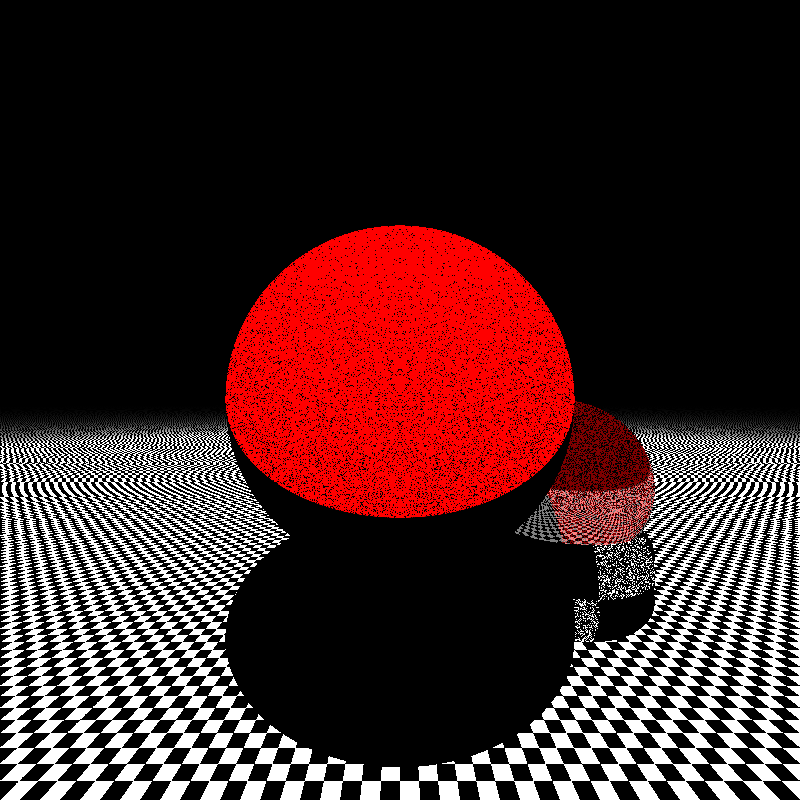
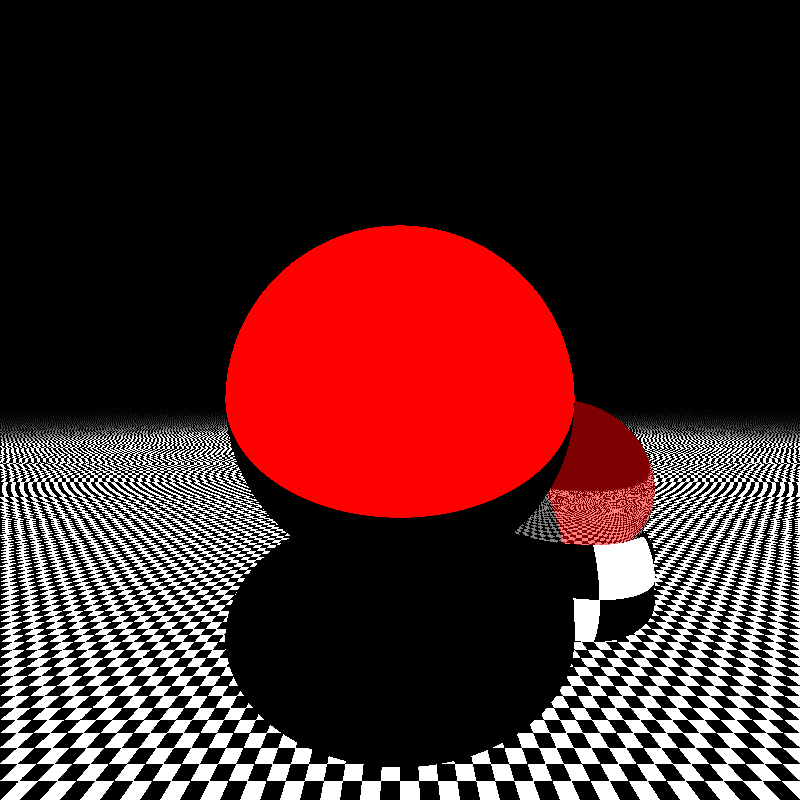
Luces puntuales listas

Changed region(s): [[0.2812, 0.4062, 0.8125, 0.75], [0.7188, 0.75, 0.75, 0.8125]]

diff --git a/src/objects.rs b/src/objects.rs
@@ -203,7 +203,6 @@ pub trait SceneObject{
     }
     fn get_color(&self,hit_point: &Point3D,scene: &Scene)->Color{
         let mut color = Color::black();
-        //INICIO CALCULO LUCES
         'lights_loop: for light in &scene.lights{
             let direction;
             let light_intensity;
@@ -220,15 +219,17 @@ pub trait SceneObject{
                     light_color = &luz.color;
                 },
                 Light::Spherical(luz) =>{
-                    light_color = &luz.color;
                     direction = (hit_point.clone() - luz.punto.clone()).into_vector();
                     let direction_module = direction.module();
                     let shadow_ray = Ray::new(luz.punto.clone(),direction.clone());          
                     for punto in scene.object_between_with_point(&shadow_ray) {
-                        if (punto - luz.punto.clone()).module() < direction_module{
+                        let coso = (punto - luz.punto.clone()).module();
+                        if coso < direction_module 
+                        && !((coso - direction_module).abs() < scene.shadow_bias){ //esta linea evita shadow bias
                             continue 'lights_loop;
                         }
                     }
+                    light_color = &luz.color;
                     light_intensity = luz.intensidad / (std::f64::consts::PI * 4.0 * direction_module * direction_module);
                 },
             }
@@ -237,10 +238,8 @@ pub trait SceneObject{
             let light_reflected = self.object_material().albedoo / std::f64::consts::PI;
             color = color + self.object_material().texture.color_at(coordinates,scene.gamma_correction) * light_color.clone() * light_power * light_reflected;
         }
-        //FIN CALCULO LUCES 
         color.clamp();
         color
-        
     }
     fn object_material(&self)->&Material;
     fn texture_coordinates(&self,hit_point: &Point3D)->TextureCoordinates;
@@ -272,10 +271,6 @@ pub mod objects{
     }
     impl SceneObject for Sphere{
         fn intersection_point(&self,ray: &Ray)->Option<Point3D>{
-            //evita intersecciones con sigo mismo
-            /*if ((ray.punto.clone() - self.center.clone()).module() - self.radio).abs() <1e-6 {
-                return None;
-            }*/
             let direccion = ray.direction();
             let aux = direccion.dot_product(&(ray.punto.clone() - self.center.clone()));
             let discriminante = aux*aux-((ray.punto.clone()-self.center.clone()).module().powi(2)-self.radio * self.radio);
@@ -284,14 +279,20 @@ pub mod objects{
             }else{
                 let lambda1 = -aux+(discriminante.sqrt());
                 let lambda2 = -aux-(discriminante.sqrt());
+                //let punto;
                 if lambda1>lambda2 && lambda2>=0.0{
-                    return Some((lambda2 * direccion.clone()).into_point() + ray.punto.clone())
+                    /*punto =*/ return Some((lambda2 * direccion.clone()).into_point() + ray.punto.clone());
                 }else{
                     if lambda1<0.0{
                         return None;
                     }
-                    return Some((lambda1 * direccion.clone()).into_point() + ray.punto.clone())
-                }  
+                    /*punto =*/ return Some((lambda1 * direccion.clone()).into_point() + ray.punto.clone());
+                }
+                //evita intersecciones consigo mismo
+                /*if punto.compare(&ray.punto,1e-6){
+                    return None;
+                }
+                Some(punto)*/  
             }         
         }
         fn surface_normal(&self,hit_point: &Point3D)->Vector3D{
@@ -306,7 +307,6 @@ pub mod objects{
         fn object_material(&self)->&Material{
             &self.material
         }
-
     }
     impl Sphere{
         pub fn new(center:Point3D,radio:f64,material: Material)->Self{

diff --git a/src/lib.rs b/src/lib.rs
@@ -42,7 +42,7 @@ impl Scene{
             lights: Vec::new(),
             objects_list: Vec::new(),
             max_reflections: 5,
-            shadow_bias: 1e-13,
+            shadow_bias: 1e-6, //este valor evita shadow bias en luces puntuales
             indice_refraccion_medio: 1.0,
             color_de_fondo: color::Color::black(),
             numero_threads: Nthreads::Auto,
@@ -80,10 +80,11 @@ impl Scene{
                     while y < self.height{
                         for x in 0..self.widht{
                             let rayo_actual = Ray::new_camera_ray(x,y,&self);
-                            match self.ray_caster(&rayo_actual,0){
-                                Some(valor)=>cache.push(valor.to_rgba(255,self.gamma_correction)),
-                                None=>cache.push(self.color_de_fondo.clone().to_rgba(255,self.gamma_correction)),
-                            }
+                            cache.push(
+                                self.ray_caster(&rayo_actual,0)
+                                .unwrap_or(self.color_de_fondo.clone())
+                                .to_rgba(255,self.gamma_correction)
+                            );
                         }
                         let mut mutex_lock = imagen_transfer.lock().unwrap();
                         let mut x = 0;

diff --git a/src/maths/point.rs b/src/maths/point.rs
@@ -33,6 +33,13 @@ impl Point3D{
         self.z /= largo; 
         self
     }
+    #[inline]
+    pub fn compare(&self,point:&Self,epsilon: f64)->bool{
+        if (self.x - point.x).abs() < epsilon && (self.y - point.y).abs() < epsilon &&(self.z - point.z).abs() < epsilon{
+            return true;
+        }
+        false
+    }
 }
 impl ops::Sub for Point3D{
     type Output = Point3D;
